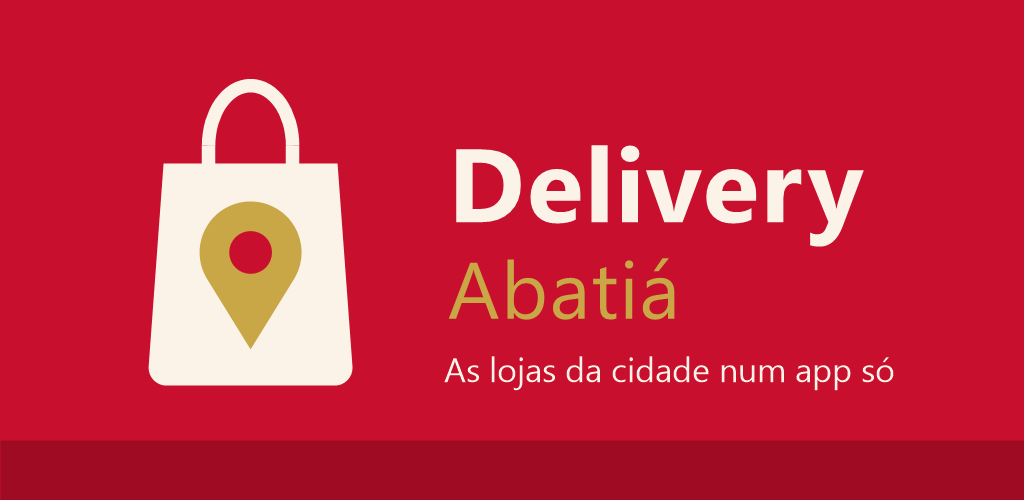
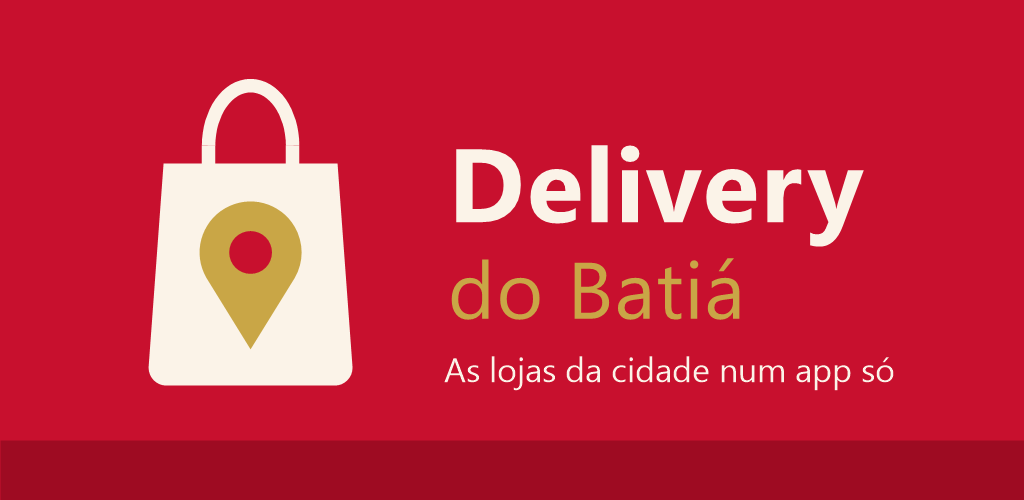
feat(app): nome de exibição "Delivery do Batiá" (textos, Sobre, aceite, splash e destaque do Play)
Package, bundleIdentifier, slug, scheme, projectId e chaves de armazenamento não mudam.

Changed region(s): [[0.4375, 0.51, 0.75, 0.66]]

diff --git a/app/src/app/(abas)/perfil.js b/app/src/app/(abas)/perfil.js
@@ -147,7 +147,7 @@ export default function Perfil() {
     <View style={s.links}>
       <Botao titulo="Política de privacidade" variante="texto" onPress={() => Linking.openURL(URL_PRIVACIDADE)} />
       <Botao titulo="Termos de uso" variante="texto" onPress={() => Linking.openURL(URL_TERMOS)} />
-      <Botao titulo="Sobre o Delivery Abatiá" variante="texto" onPress={() => router.push('/sobre')} />
+      <Botao titulo="Sobre o Delivery do Batiá" variante="texto" onPress={() => router.push('/sobre')} />
     </View>
   );
 
@@ -247,7 +247,7 @@ export default function Perfil() {
           <Text style={s.tituloCartao}>Comunicações</Text>
           <View style={s.linhaSwitch}>
             <Text style={[s.valor, { flex: 1 }]} nativeID="rotuloMarketing">
-              Quero receber ofertas e novidades das lojas e do Delivery Abatiá
+              Quero receber ofertas e novidades das lojas e do Delivery do Batiá
             </Text>
             <Switch
               value={Boolean(cliente.marketing)}

diff --git a/app/test/anuncios-plataforma.test.js b/app/test/anuncios-plataforma.test.js
@@ -29,7 +29,7 @@ test('anúncios para mostrar: imagem com a base da API, sem os inválidos; etiqu
 test('dados da plataforma: resposta da API conferida; sem resposta = padrão com os links legais', () => {
   assert.deepEqual(dadosDaPlataforma(null), PLATAFORMA_PADRAO);
   const d = dadosDaPlataforma({
-    plataforma: { nome: 'Delivery Abatiá', responsavel: 'Fulano', documento: null, cidade: 'Abatiá-PR', identificacao: 'Fulano, Abatiá-PR' },
+    plataforma: { nome: 'Delivery do Batiá', responsavel: 'Fulano', documento: null, cidade: 'Abatiá-PR', identificacao: 'Fulano, Abatiá-PR' },
     contato: { email: 'contato@exemplo.com', formulario: '/excluir-conta' },
     documentos: { versao: '2026-11-20', vigencia: '20 de novembro de 2026', privacidade: '/privacidade-app', termos: 'javascript:x', excluirConta: '/excluir-conta' },
   });

diff --git a/app/src/componentes/AceiteTermos.js b/app/src/componentes/AceiteTermos.js
@@ -46,8 +46,8 @@ export function AceiteTermos() {
         </Text>
         <Text style={s.texto}>
           {jaAceitouAntes
-            ? 'Os Termos de uso e a Política de privacidade do Delivery Abatiá mudaram. Leia a versão nova e aceite para continuar usando sua conta.'
-            : 'Para usar sua conta no Delivery Abatiá, leia e aceite os Termos de uso e a Política de privacidade.'}
+            ? 'Os Termos de uso e a Política de privacidade do Delivery do Batiá mudaram. Leia a versão nova e aceite para continuar usando sua conta.'
+            : 'Para usar sua conta no Delivery do Batiá, leia e aceite os Termos de uso e a Política de privacidade.'}
         </Text>
         <Text style={s.texto}>
           Toque nos nomes abaixo para ler. Receber ofertas é outra escolha, opcional, em Perfil › Comunicações.

diff --git a/app/src/app/(abas)/index.js b/app/src/app/(abas)/index.js
@@ -67,7 +67,7 @@ function BarraSacolaDaLoja() {
   );
 }
 
-/** Início: as lojas do Delivery Abatiá (logo, nome, aberta/fechada, próxima abertura), com busca. */
+/** Início: as lojas do Delivery do Batiá (logo, nome, aberta/fechada, próxima abertura), com busca. */
 export default function Vitrine() {
   const s = useEstilos(criarEstilos);
   const tema = useTema();
@@ -81,7 +81,7 @@ export default function Vitrine() {
   const topo = (
     <View style={[s.topo, { paddingTop: top + 12 }]}>
       <Text style={s.titulo} accessibilityRole="header">
-        Delivery Abatiá
+        Delivery do Batiá
       </Text>
       <View style={s.busca}>
         <Ionicons name="search" size={18} color={tema.cores.textoSuave} />

diff --git a/app/app.config.js b/app/app.config.js
@@ -1,4 +1,4 @@
-// Configuração do app "Delivery Abatiá" (Expo), multi-loja: vitrine de lojas,
+// Configuração do app "Delivery do Batiá" (Expo), multi-loja: vitrine de lojas,
 // página de cada loja no tema dela (cor e logo da API). Pastas android/ e ios/
 // são geradas pelo prebuild (CNG) e não vão para o git: tudo nativo se configura aqui.
 
@@ -14,7 +14,7 @@ const EAS_PROJECT_ID = '77cc3648-5ee3-4448-a147-6c213d3a69ea';
 
 /** @type {import("expo/config").ExpoConfig} */
 export default {
-  name: 'Delivery Abatiá',
+  name: 'Delivery do Batiá',
   slug: 'delivery-abatia',
   scheme: 'deliveryabatia',
   version: '0.3.0',

diff --git a/app/src/tema/tema.js b/app/src/tema/tema.js
@@ -66,10 +66,10 @@ export const temaCabana = {
 };
 
 /**
- * Tema padrão do app (vitrine, abas, login): Delivery Abatiá, com as cores do
+ * Tema padrão do app (vitrine, abas, login): Delivery do Batiá, com as cores do
  * ícone/splash provisórios (as mesmas da Cabana) e sem logo (mostra o nome).
  */
-export const temaPadrao = { ...temaCabana, id: 'delivery-abatia', nome: 'Delivery Abatiá', logo: null };
+export const temaPadrao = { ...temaCabana, id: 'delivery-abatia', nome: 'Delivery do Batiá', logo: null };
 
 /**
  * Tema de uma loja (página da loja, produto, sacola e checkout): cor primária

diff --git a/app/src/logica/plataforma.js b/app/src/logica/plataforma.js
@@ -5,7 +5,7 @@
 
 /** Usado quando a API não responde (os links legais continuam funcionando). */
 export const PLATAFORMA_PADRAO = Object.freeze({
-  plataforma: { nome: 'Delivery Abatiá', responsavel: null, documento: null, cidade: 'Abatiá-PR', identificacao: null },
+  plataforma: { nome: 'Delivery do Batiá', responsavel: null, documento: null, cidade: 'Abatiá-PR', identificacao: null },
   contato: { email: null, formulario: '/excluir-conta' },
   documentos: { versao: null, vigencia: null, privacidade: '/privacidade-app', termos: '/termos-app', excluirConta: '/excluir-conta' },
 });

diff --git a/app/src/app/sobre.js b/app/src/app/sobre.js
@@ -50,7 +50,7 @@ export default function Sobre() {
   return (
     <ScrollView style={s.tela} contentContainerStyle={s.conteudo}>
       <Text style={s.marca} accessibilityRole="header">
-        Delivery Abatiá
+        Delivery do Batiá
       </Text>
       <Text style={s.nota}>Pedidos das lojas de Abatiá-PR.{versao ? ` Versão ${versao}.` : ''}</Text>
 

diff --git a/app/src/componentes/Loja.js b/app/src/componentes/Loja.js
@@ -67,7 +67,7 @@ export function IdentificacaoLoja({ config }) {
           {linha}
         </Text>
       ))}
-      <Text style={s.linha}>Pedido feito pelo app Delivery Abatiá, entregue e cobrado pela loja.</Text>
+      <Text style={s.linha}>Pedido feito pelo app Delivery do Batiá, entregue e cobrado pela loja.</Text>
     </View>
   );
 }

diff --git a/app/CONFIGURACAO_LOGIN.md b/app/CONFIGURACAO_LOGIN.md
@@ -1,4 +1,4 @@
-# Login no app Delivery Abatiá: Google, Apple e lojas
+# Login no app Delivery do Batiá: Google, Apple e lojas
 
 Passo a passo do que configurar **fora do código** para o login funcionar no Android e no iOS, e para publicar nas lojas. O código já está pronto; sem estes passos o botão "Continuar com Google" mostra "Login com Google ainda não configurado para esta versão do app".
 
@@ -6,7 +6,7 @@ Dados fixos do app:
 
 | Item | Valor |
 |---|---|
-| Nome | Delivery Abatiá |
+| Nome | Delivery do Batiá |
 | Pacote Android / Bundle ID iOS | `br.com.deliveryabatia.app` |
 | Projeto EAS | `@sampaio040826/delivery-abatia` (ID `77cc3648-5ee3-4448-a147-6c213d3a69ea`) |
 | API | `https://cabana.managerpix.com.br` |
@@ -22,7 +22,7 @@ Dados fixos do app:
 
 O cliente OAuth **Android** não aparece no código. Ele existe para o Google autorizar o app pelo par **pacote + SHA-1 do certificado** que assinou o APK/AAB. Sem um cliente Android com o SHA-1 certo, o Google responde `DEVELOPER_ERROR`.
 
-Use o **mesmo projeto do Google Cloud** do site ("Cabana Boemia"): o cliente Android precisa estar no mesmo projeto do cliente web. Na tela de consentimento aparece o nome do Branding ("Cabana Boemia"). Quando o app virar multi-loja, vale criar um projeto "Delivery Abatiá" e migrar os clientes.
+Use o **mesmo projeto do Google Cloud** do site ("Cabana Boemia"): o cliente Android precisa estar no mesmo projeto do cliente web. Na tela de consentimento aparece o nome do Branding ("Cabana Boemia"). Quando o app virar multi-loja, vale criar um projeto "Delivery do Batiá" e migrar os clientes.
 
 ## 1. Google Cloud: cliente OAuth Android (build do EAS)
 
@@ -32,7 +32,7 @@ Use o **mesmo projeto do Google Cloud** do site ("Cabana Boemia"): o cliente And
    Os perfis development, preview e production usam o mesmo keystore, então um SHA-1 cobre todos os builds do EAS.
 2. [Google Cloud Console](https://console.cloud.google.com/) › projeto **Cabana Boemia** › **Google Auth Platform** › **Clientes** › **Criar cliente**:
    - Tipo: **Android**
-   - Nome: `App Delivery Abatiá (Android, EAS)`
+   - Nome: `App Delivery do Batiá (Android, EAS)`
    - Nome do pacote: `br.com.deliveryabatia.app`
    - Impressão digital SHA-1: a do passo 1
 3. Salve. Não há segredo nem nada para copiar para o app. Opcional: acrescente o ID desse cliente em `GOOGLE_CLIENT_IDS` no Railway (não atrapalha e cobre o caso de o token vir com esse `aud`).
@@ -42,15 +42,15 @@ Use o **mesmo projeto do Google Cloud** do site ("Cabana Boemia"): o cliente And
 
 Quem instala pela Play Store recebe o app **reassinado pelo Google** com outra chave. É preciso um segundo cliente Android:
 
-1. Play Console › app **Delivery Abatiá** › **Testar e lançar** › **Configuração** › **Integridade do app** › **Assinatura do app**.
+1. Play Console › app **Delivery do Batiá** › **Testar e lançar** › **Configuração** › **Integridade do app** › **Assinatura do app**.
 2. Copie o SHA-1 de **"Certificado da chave de assinatura do app"**. O da "chave de upload" é o do EAS, já cadastrado no passo 1.
-3. Google Cloud › Clientes › Criar cliente › Android: nome `App Delivery Abatiá (Android, Play)`, mesmo pacote, esse SHA-1.
+3. Google Cloud › Clientes › Criar cliente › Android: nome `App Delivery do Batiá (Android, Play)`, mesmo pacote, esse SHA-1.
 
 Sem isso o login funciona no APK de preview e **falha só na versão baixada da Play Store**.
 
 ## 3. Google Cloud: cliente OAuth iOS
 
-1. Google Cloud › Clientes › Criar cliente › **iOS**: nome `App Delivery Abatiá (iOS)`, ID do pacote `br.com.deliveryabatia.app` (o Team ID e o App Store ID são opcionais).
+1. Google Cloud › Clientes › Criar cliente › **iOS**: nome `App Delivery do Batiá (iOS)`, ID do pacote `br.com.deliveryabatia.app` (o Team ID e o App Store ID são opcionais).
 2. Anote o **ID do cliente** e o **Esquema de URL do iOS** (`com.googleusercontent.apps.<...>`).
 3. No EAS, crie as variáveis dos builds iOS (expo.dev › projeto › **Environment variables**, ambientes preview e production; ou `npx eas-cli@latest env:create`):
    - `EXPO_PUBLIC_GOOGLE_IOS_CLIENT_ID` = o ID do cliente iOS
@@ -65,7 +65,7 @@ A App Store exige "Entrar com Apple" quando o app oferece login com Google. O bo
 2. developer.apple.com › Certificates, Identifiers & Profiles › **Identifiers** › App ID `br.com.deliveryabatia.app` com a capability **Sign In with Apple** marcada. No primeiro `eas build -p ios`, o EAS cria o App ID e liga a capability sozinho, porque o `app.config.js` tem `usesAppleSignIn: true`. Confira depois.
 3. A API confere o identity token com as chaves públicas da Apple e aceita `aud` = `br.com.deliveryabatia.app` (padrão; `APPLE_BUNDLE_IDS` muda isso). **Nada mais é preciso para o login funcionar.**
 4. **Para revogar o login na Apple ao excluir a conta** (exigência da App Store), crie uma chave:
-   - **Keys** › "+" › nome `Delivery Abatia SIWA` › marque **Sign in with Apple** › Configure › App ID primário `br.com.deliveryabatia.app` › Register.
+   - **Keys** › "+" › nome `Delivery do Batia SIWA` › marque **Sign in with Apple** › Configure › App ID primário `br.com.deliveryabatia.app` › Register.
    - Baixe o `.p8`. **Ele só pode ser baixado uma vez**: guarde fora do repositório.
    - Anote o **Key ID**. O **Team ID** fica em Membership details.
    - Railway: `APPLE_TEAM_ID`, `APPLE_KEY_ID` e `APPLE_PRIVATE_KEY` (o conteúdo do `.p8` numa linha só, trocando cada quebra de linha por `\n`).
@@ -83,7 +83,7 @@ A App Store exige "Entrar com Apple" quando o app oferece login com Google. O bo
 
 ## 6. Play Console: teste fechado
 
-1. Crie o app: nome "Delivery Abatiá", idioma padrão Português (Brasil), App, Gratuito.
+1. Crie o app: nome "Delivery do Batiá", idioma padrão Português (Brasil), App, Gratuito.
 2. **Política do app** (Painel › Configurar o app):
    - Política de privacidade: `https://cabana.managerpix.com.br/privacidade-app` (em nome da plataforma). **Rascunho: precisa de revisão jurídica antes da produção** (ver CLAUDE.md).
    - **Exclusão de conta**: marque que o app permite criar conta e informe o link `https://cabana.managerpix.com.br/excluir-conta`. Dentro do app: Perfil › Excluir minha conta.

diff --git a/app/PUBLICACAO.md b/app/PUBLICACAO.md
@@ -1,4 +1,4 @@
-# Publicar o app Delivery Abatiá (Google Play e App Store)
+# Publicar o app Delivery do Batiá (Google Play e App Store)
 
 Passo a passo de build, envio, versão e dos formulários de privacidade das lojas. O login (Google Cloud, Apple, chaves) está em [`CONFIGURACAO_LOGIN.md`](CONFIGURACAO_LOGIN.md); faça aquele antes do primeiro envio.
 
@@ -40,7 +40,7 @@ GOOGLE_IOS_URL_SCHEME=com.googleusercontent.apps.XXXX npx eas-cli@latest build -
 
 ### Google Play
 
-1. **O primeiro AAB vai à mão** (o Google exige): Play Console › Delivery Abatiá › Testes › Teste interno (ou fechado) › Criar versão › enviar o `.aab` baixado do EAS. Aceite o **Play App Signing** (o Google guarda a chave final; a do EAS vira chave de upload).
+1. **O primeiro AAB vai à mão** (o Google exige): Play Console › Delivery do Batiá › Testes › Teste interno (ou fechado) › Criar versão › enviar o `.aab` baixado do EAS. Aceite o **Play App Signing** (o Google guarda a chave final; a do EAS vira chave de upload).
 2. Depois do primeiro, pelo EAS:
    ```bash
    npx eas-cli@latest submit -p android --latest
@@ -128,7 +128,7 @@ App Store Connect › App › Privacidade do app:
 
 ### Google Play
 
-**Nome do app** (até 30): `Delivery Abatiá`
+**Nome do app** (até 30): `Delivery do Batiá`
 
 **Descrição curta** (até 80):
 
@@ -136,7 +136,7 @@ App Store Connect › App › Privacidade do app:
 
 **Descrição completa** (até 4000):
 
-> O Delivery Abatiá reúne as lanchonetes e restaurantes de Abatiá-PR num app só. Veja o cardápio de cada loja, monte sua sacola e receba em casa. O pagamento é feito na entrega, direto com a loja: Pix, dinheiro ou cartão.
+> O Delivery do Batiá reúne as lanchonetes e restaurantes de Abatiá-PR num app só. Veja o cardápio de cada loja, monte sua sacola e receba em casa. O pagamento é feito na entrega, direto com a loja: Pix, dinheiro ou cartão.
 >
 > COMO FUNCIONA
 > • Escolha a loja: o início mostra quem está aberto agora e quando cada uma abre.
@@ -165,7 +165,7 @@ App Store Connect › App › Privacidade do app:
 
 ### App Store
 
-- **Nome** (30): `Delivery Abatiá`
+- **Nome** (30): `Delivery do Batiá`
 - **Subtítulo** (30): `Lojas de Abatiá na sua casa`
 - **Palavras-chave** (100): `delivery,abatiá,lanche,pizza,marmita,restaurante,lanchonete,pedido,entrega,comida`
 - **Texto promocional** (170): `Peça das lanchonetes e restaurantes de Abatiá-PR e pague na entrega, com Pix, dinheiro ou cartão.`
